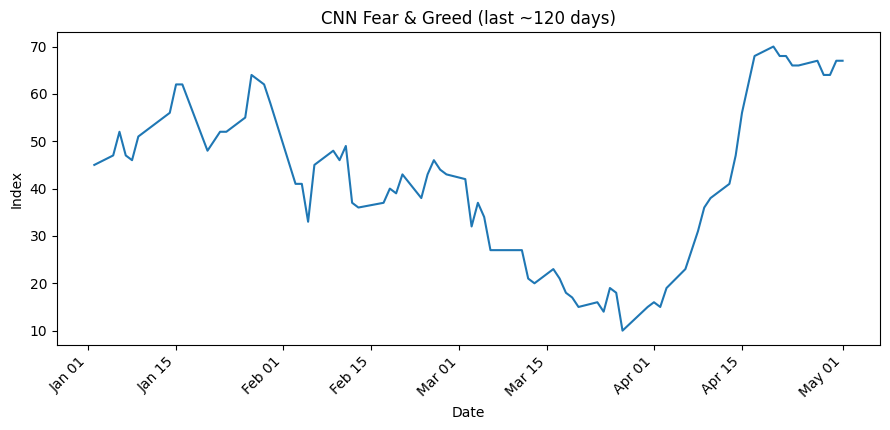
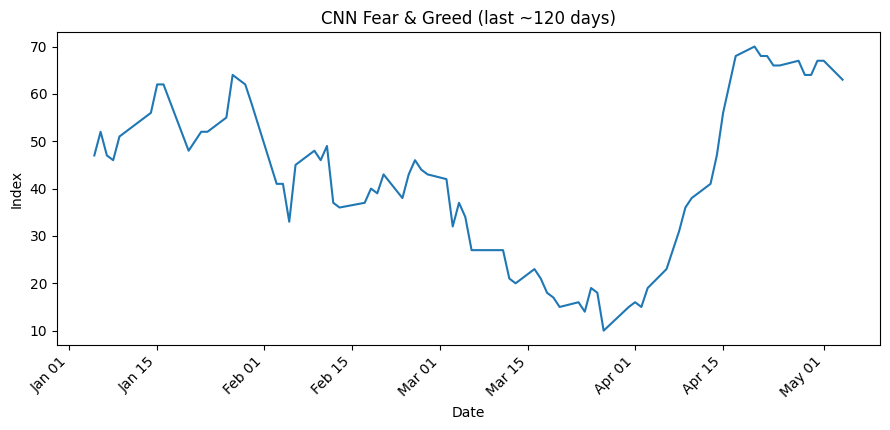
🔄 Update report [auto]

diff --git a/docs/index.html b/docs/index.html
@@ -141,9 +141,9 @@
     <body>
         <div class="refresh-indicator" id="refreshTimer">Page loaded at <span id="loadTime"></span></div>
         <h1>📈 US DM Dashboard 📉 </h1>
-        <div class="date-subtitle">Signals triggered on Friday, May 01, 2026 (as of NY market close)</div>
+        <div class="date-subtitle">Signals triggered on Monday, May 04, 2026 (as of NY market close)</div>
         <div class="fg-box">
-            <strong>CNN Fear & Greed Index:</strong> 67 (Prev: 67) on 2026-05-01
+            <strong>CNN Fear & Greed Index:</strong> 63 (Prev: 67) on 2026-05-04
         </div>
         <img src="fg_trend.png" alt="Fear & Greed Trend" style="max-width: 480px; display:block; margin:6px 0 16px 0;">
 
@@ -156,41 +156,41 @@
             </tr>
             <tr>
                 <td><strong>Bottoms</strong></td>
-                <td>55</td>
-                <td>22</td>
+                <td>45</td>
+                <td>7</td>
             </tr>
             <tr>
                 <td><strong>Tops</strong></td>
-                <td>29</td>
-                <td>12</td>
+                <td>17</td>
+                <td>14</td>
             </tr>
         </table>
     <h2>Sector Signal Grid</h2><div class="sector-grid"><div class="sector-cell" style="background-color: #f0f0f0;">Technology</div><div class="sector-cell" style="background-color: #f0f0f0;">Financials</div><div class="sector-cell" style="background-color: #f0f0f0;">Communications</div><div class="sector-cell" style="background-color: #f0f0f0;">Discretionary</div><div class="sector-cell" style="background-color: #f0f0f0;">Real Estate</div><div class="sector-cell" style="background-color: #f0f0f0;">Home Builders</div><div class="sector-cell" style="background-color: #f0f0f0;">Biotechnology</div><div class="sector-cell" style="background-color: #f0f0f0;">Regional Banks</div><div class="sector-cell" style="background-color: #f0f0f0;">Healthcare</div><div class="sector-cell" style="background-color: #f0f0f0;">Staples</div><div class="sector-cell" style="background-color: #f0f0f0;">Energy</div><div class="sector-cell" style="background-color: #f0f0f0;">Utilities</div><div class="sector-cell" style="background-color: #f0f0f0;">Materials</div><div class="sector-cell" style="background-color: #f0f0f0;">Industrials</div><div class="sector-cell" style="background-color: #f0f0f0;">Gold</div><div class="sector-cell" style="background-color: #f0f0f0;">Silver</div><div class="sector-cell" style="background-color: #f0f0f0;">Bitcoin</div><div class="sector-cell" style="background-color: #f0f0f0;">Ethereum</div></div>
     <div class="row">
         <div class="column">
             <h2>Daily Bottoms</h2>
-            <table class='sortable'><tr><th>Ticker</th><th>Close Price</th><th>Signal</th><th>Industry</th></tr><tr><td>AEO</td><td>16.94</td><td style='background-color: #d4edda;'>DM9 Bot</td><td>Apparel Retail</td></tr><tr><td>AGI</td><td>39.42</td><td style='background-color: #d4edda;'>DM9 Bot</td><td>Gold</td></tr><tr><td>ALC</td><td>74.09</td><td style='background-color: #d4edda;'>DM9 Bot</td><td>Medical Instruments & Supplies</td></tr><tr><td>ALK</td><td>38.55</td><td style='background-color: #d4edda;'>DM9 Bot</td><td>Airlines</td></tr><tr><td>ANNX</td><td>5.75</td><td style='background-color: #d4edda;'>DM9 Bot</td><td>Biotechnology</td></tr><tr><td>BBD</td><td>3.84</td><td style='background-color: #d4edda;'>DM9 Bot</td><td>Banks - Regional</td></tr><tr><td>BF-B</td><td>25.55</td><td style='background-color: #d4edda;'>DM9 Bot</td><td>Beverages - Wineries & Distilleries</td></tr><tr><td>BRCB</td><td>12.08</td><td style='background-color: #d4edda;'>DM9 Bot</td><td>Beverages - Non-Alcoholic</td></tr><tr><td>CCL</td><td>26.66</td><td style='background-color: #d4edda;'>DM9 Bot</td><td>Travel Services</td></tr><tr><td>COF</td><td>191.91</td><td style='background-color: #d4edda;'>DM9 Bot</td><td>Credit Services</td></tr><tr><td>CSGP</td><td>34.72</td><td style='background-color: #d4edda;'>DM9 Bot</td><td>Real Estate Services</td></tr><tr><td>CTAS</td><td>169.61</td><td style='background-color: #d4edda;'>DM9 Bot</td><td>Specialty Business Services</td></tr><tr><td>CUK</td><td>26.61</td><td style='background-color: #d4edda;'>DM9 Bot</td><td>Travel Services</td></tr><tr><td>DBD</td><td>77.86</td><td style='background-color: #d4edda;'>DM9 Bot</td><td>Software - Application</td></tr><tr><td>DGNX</td><td>1.96</td><td style='background-color: #d4edda;'>DM9 Bot</td><td>Consulting Services</td></tr><tr><td>DNLI</td><td>18.30</td><td style='background-color: #d4edda;'>DM9 Bot</td><td>Biotechnology</td></tr><tr><td>DYN</td><td>17.39</td><td style='background-color: #d4edda;'>DM9 Bot</td><td>Biotechnology</td></tr><tr><td>FDMT</td><td>9.09</td><td style='background-color: #d4edda;'>DM9 Bot</td><td>Biotechnology</td></tr><tr><td>FUTU</td><td>154.85</td><td style='background-color: #d4edda;'>DM9 Bot</td><td>Capital Markets</td></tr><tr><td>GENI</td><td>4.35</td><td style='background-color: #d4edda;'>DM9 Bot</td><td>Internet Content & Information</td></tr><tr><td>GSK</td><td>51.61</td><td style='background-color: #c3e6cb; font-weight: bold;'>DM13 Bot</td><td>Drug Manufacturers - General</td></tr><tr><td>IAUX</td><td>1.52</td><td style='background-color: #d4edda;'>DM9 Bot</td><td>Gold</td></tr><tr><td>IDYA</td><td>28.19</td><td style='background-color: #d4edda;'>DM9 Bot</td><td>Biotechnology</td></tr><tr><td>IOVA</td><td>3.40</td><td style='background-color: #d4edda;'>DM9 Bot</td><td>Biotechnology</td></tr><tr><td>ITRG</td><td>2.69</td><td style='background-color: #d4edda;'>DM9 Bot</td><td>Other Precious Metals & Mining</td></tr><tr><td>ITRI</td><td>85.40</td><td style='background-color: #d4edda;'>DM9 Bot</td><td>Scientific & Technical Instruments</td></tr><tr><td>JBLU</td><td>4.86</td><td style='background-color: #d4edda;'>DM9 Bot</td><td>Airlines</td></tr><tr><td>LTM</td><td>47.26</td><td style='background-color: #d4edda;'>DM9 Bot</td><td>Airlines</td></tr><tr><td>LXRX</td><td>1.63</td><td style='background-color: #d4edda;'>DM9 Bot</td><td>Biotechnology</td></tr><tr><td>MCD</td><td>286.64</td><td style='background-color: #d4edda;'>DM9 Bot</td><td>Restaurants</td></tr><tr><td>NG</td><td>8.05</td><td style='background-color: #d4edda;'>DM9 Bot</td><td>Gold</td></tr><tr><td>NGD</td><td>9.08</td><td style='background-color: #c3e6cb; font-weight: bold;'>DM13 Bot</td><td>Gold</td></tr><tr><td>NVAX</td><td>8.04</td><td style='background-color: #d4edda;'>DM9 Bot</td><td>Biotechnology</td></tr><tr><td>ORLA</td><td>13.30</td><td style='background-color: #c3e6cb; font-weight: bold;'>DM13 Bot</td><td>Gold</td></tr><tr><td>OSIS</td><td>282.50</td><td style='background-color: #d4edda;'>DM9 Bot</td><td>Electronic Components</td></tr><tr><td>PAAS</td><td>51.81</td><td style='background-color: #d4edda;'>DM9 Bot</td><td>Gold</td></tr><tr><td>PAGS</td><td>9.87</td><td style='background-color: #d4edda;'>DM9 Bot</td><td>Software - Infrastructure</td></tr><tr><td>PLAY</td><td>11.63</td><td style='background-color: #d4edda;'>DM9 Bot</td><td>Entertainment</td></tr><tr><td>PLNT</td><td>65.38</td><td style='background-color: #d4edda;'>DM9 Bot</td><td>Leisure</td></tr><tr><td>PONY</td><td>9.89</td><td style='background-color: #d4edda;'>DM9 Bot</td><td>Information Technology Services</td></tr><tr><td>PPTA</td><td>27.47</td><td style='background-color: #d4edda;'>DM9 Bot</td><td>Other Precious Metals & Mining</td></tr><tr><td>QXO</td><td>19.82</td><td style='background-color: #d4edda;'>DM9 Bot</td><td>Industrial Distribution</td></tr><tr><td>RERE</td><td>4.43</td><td style='background-color: #d4edda;'>DM9 Bot</td><td>Internet Retail</td></tr><tr><td>SBSW</td><td>12.07</td><td style='background-color: #d4edda;'>DM9 Bot</td><td>Other Precious Metals & Mining</td></tr><tr><td>SONY</td><td>19.78</td><td style='background-color: #d4edda;'>DM9 Bot</td><td>Consumer Electronics</td></tr><tr><td>SPOT</td><td>441.51</td><td style='background-color: #d4edda;'>DM9 Bot</td><td>Internet Content & Information</td></tr><tr><td>SRAD</td><td>13.26</td><td style='background-color: #d4edda;'>DM9 Bot</td><td>Software - Application</td></tr><tr><td>TME</td><td>9.10</td><td style='background-color: #d4edda;'>DM9 Bot</td><td>Internet Content & Information</td></tr><tr><td>TPR</td><td>142.74</td><td style='background-color: #d4edda;'>DM9 Bot</td><td>Luxury Goods</td></tr><tr><td>UBER</td><td>75.12</td><td style='background-color: #d4edda;'>DM9 Bot</td><td>Software - Application</td></tr><tr><td>USAS</td><td>5.87</td><td style='background-color: #d4edda;'>DM9 Bot</td><td>Other Industrial Metals & Mining</td></tr><tr><td>USLM</td><td>110.00</td><td style='background-color: #d4edda;'>DM9 Bot</td><td>Building Materials</td></tr><tr><td>VKTX</td><td>30.00</td><td style='background-color: #d4edda;'>DM9 Bot</td><td>Biotechnology</td></tr><tr><td>VSEC</td><td>170.91</td><td style='background-color: #d4edda;'>DM9 Bot</td><td>Aerospace & Defense</td></tr><tr><td>ZTS</td><td>114.16</td><td style='background-color: #d4edda;'>DM9 Bot</td><td>Drug Manufacturers - Specialty & Generic</td></tr></table>
-            <h3>Daily Bottoms by Sector</h3><table><tr><th>Sector</th><th>Count</th></tr><tr><td>Healthcare</td><td>12</td></tr><tr><td>Basic Materials</td><td>11</td></tr><tr><td>Technology</td><td>8</td></tr><tr><td>Consumer Cyclical</td><td>7</td></tr><tr><td>Industrials</td><td>7</td></tr><tr><td>Communication Services</td><td>4</td></tr><tr><td>Financial</td><td>3</td></tr><tr><td>Consumer Defensive</td><td>2</td></tr><tr><td>Real Estate</td><td>1</td></tr></table>
+            <table class='sortable'><tr><th>Ticker</th><th>Close Price</th><th>Signal</th><th>Industry</th></tr><tr><td>AJG</td><td>207.03</td><td style='background-color: #d4edda;'>DM9 Bot</td><td>Insurance Brokers</td></tr><tr><td>ANF</td><td>78.97</td><td style='background-color: #d4edda;'>DM9 Bot</td><td>Apparel Retail</td></tr><tr><td>AON</td><td>314.92</td><td style='background-color: #d4edda;'>DM9 Bot</td><td>Insurance Brokers</td></tr><tr><td>APH</td><td>141.03</td><td style='background-color: #d4edda;'>DM9 Bot</td><td>Electronic Components</td></tr><tr><td>AVNT</td><td>35.61</td><td style='background-color: #d4edda;'>DM9 Bot</td><td>Specialty Chemicals</td></tr><tr><td>BIPC</td><td>37.09</td><td style='background-color: #c3e6cb; font-weight: bold;'>DM13 Bot</td><td>Utilities - Regulated Gas</td></tr><tr><td>BKNG</td><td>165.58</td><td style='background-color: #d4edda;'>DM9 Bot</td><td>Travel Services</td></tr><tr><td>BRO</td><td>57.64</td><td style='background-color: #d4edda;'>DM9 Bot</td><td>Insurance Brokers</td></tr><tr><td>CAR</td><td>168.29</td><td style='background-color: #d4edda;'>DM9 Bot</td><td>Rental & Leasing Services</td></tr><tr><td>CIG</td><td>2.46</td><td style='background-color: #d4edda;'>DM9 Bot</td><td>Utilities - Diversified</td></tr><tr><td>CPAY</td><td>310.83</td><td style='background-color: #d4edda;'>DM9 Bot</td><td>Software - Infrastructure</td></tr><tr><td>CTSH</td><td>51.86</td><td style='background-color: #d4edda;'>DM9 Bot</td><td>Information Technology Services</td></tr><tr><td>DAVA</td><td>4.17</td><td style='background-color: #d4edda;'>DM9 Bot</td><td>Software - Infrastructure</td></tr><tr><td>DECK</td><td>97.65</td><td style='background-color: #d4edda;'>DM9 Bot</td><td>Footwear & Accessories</td></tr><tr><td>DG</td><td>114.48</td><td style='background-color: #d4edda;'>DM9 Bot</td><td>Discount Stores</td></tr><tr><td>ECL</td><td>255.59</td><td style='background-color: #d4edda;'>DM9 Bot</td><td>Specialty Chemicals</td></tr><tr><td>FLG</td><td>13.86</td><td style='background-color: #d4edda;'>DM9 Bot</td><td>Banks - Regional</td></tr><tr><td>FLY</td><td>33.37</td><td style='background-color: #d4edda;'>DM9 Bot</td><td>Aerospace & Defense</td></tr><tr><td>GAP</td><td>23.67</td><td style='background-color: #d4edda;'>DM9 Bot</td><td>Apparel Retail</td></tr><tr><td>GLOB</td><td>40.18</td><td style='background-color: #d4edda;'>DM9 Bot</td><td>Information Technology Services</td></tr><tr><td>HMY</td><td>15.49</td><td style='background-color: #d4edda;'>DM9 Bot</td><td>Gold</td></tr><tr><td>IFF</td><td>70.09</td><td style='background-color: #d4edda;'>DM9 Bot</td><td>Specialty Chemicals</td></tr><tr><td>KC</td><td>15.21</td><td style='background-color: #d4edda;'>DM9 Bot</td><td>Software - Application</td></tr><tr><td>LCTX</td><td>1.42</td><td style='background-color: #d4edda;'>DM9 Bot</td><td>Biotechnology</td></tr><tr><td>LMND</td><td>55.05</td><td style='background-color: #d4edda;'>DM9 Bot</td><td>Insurance - Property & Casualty</td></tr><tr><td>MOS</td><td>22.97</td><td style='background-color: #d4edda;'>DM9 Bot</td><td>Agricultural Inputs</td></tr><tr><td>NGD</td><td>9.08</td><td style='background-color: #c3e6cb; font-weight: bold;'>DM13 Bot</td><td>Gold</td></tr><tr><td>NKE</td><td>43.09</td><td style='background-color: #d4edda;'>DM9 Bot</td><td>Footwear & Accessories</td></tr><tr><td>NVR</td><td>5932.12</td><td style='background-color: #d4edda;'>DM9 Bot</td><td>Residential Construction</td></tr><tr><td>PATK</td><td>85.13</td><td style='background-color: #d4edda;'>DM9 Bot</td><td>Furnishings, Fixtures & Appliances</td></tr><tr><td>PCVX</td><td>58.49</td><td style='background-color: #d4edda;'>DM9 Bot</td><td>Biotechnology</td></tr><tr><td>PFE</td><td>26.30</td><td style='background-color: #d4edda;'>DM9 Bot</td><td>Drug Manufacturers - General</td></tr><tr><td>PLMR</td><td>115.55</td><td style='background-color: #d4edda;'>DM9 Bot</td><td>Insurance - Property & Casualty</td></tr><tr><td>PPG</td><td>104.08</td><td style='background-color: #d4edda;'>DM9 Bot</td><td>Specialty Chemicals</td></tr><tr><td>SCCO</td><td>166.30</td><td style='background-color: #c3e6cb; font-weight: bold;'>DM13 Bot</td><td>Copper</td></tr><tr><td>STNE</td><td>10.84</td><td style='background-color: #d4edda;'>DM9 Bot</td><td>Software - Infrastructure</td></tr><tr><td>SUPV</td><td>7.95</td><td style='background-color: #d4edda;'>DM9 Bot</td><td>Banks - Regional</td></tr><tr><td>TRU</td><td>69.05</td><td style='background-color: #d4edda;'>DM9 Bot</td><td>Financial Data & Stock Exchanges</td></tr><tr><td>TV</td><td>2.79</td><td style='background-color: #d4edda;'>DM9 Bot</td><td>Telecom Services</td></tr><tr><td>UNF</td><td>249.74</td><td style='background-color: #d4edda;'>DM9 Bot</td><td>Specialty Business Services</td></tr><tr><td>VERA</td><td>35.51</td><td style='background-color: #c3e6cb; font-weight: bold;'>DM13 Bot</td><td>Biotechnology</td></tr><tr><td>VOYG</td><td>25.57</td><td style='background-color: #d4edda;'>DM9 Bot</td><td>Aerospace & Defense</td></tr><tr><td>WMG</td><td>28.11</td><td style='background-color: #d4edda;'>DM9 Bot</td><td>Entertainment</td></tr><tr><td>WOOF</td><td>2.78</td><td style='background-color: #d4edda;'>DM9 Bot</td><td>Specialty Retail</td></tr><tr><td>WTW</td><td>260.02</td><td style='background-color: #d4edda;'>DM9 Bot</td><td>Insurance Brokers</td></tr></table>
+            <h3>Daily Bottoms by Sector</h3><table><tr><th>Sector</th><th>Count</th></tr><tr><td>Financial</td><td>9</td></tr><tr><td>Basic Materials</td><td>8</td></tr><tr><td>Consumer Cyclical</td><td>8</td></tr><tr><td>Technology</td><td>7</td></tr><tr><td>Healthcare</td><td>4</td></tr><tr><td>Industrials</td><td>4</td></tr><tr><td>Utilities</td><td>2</td></tr><tr><td>Communication Services</td><td>2</td></tr><tr><td>Consumer Defensive</td><td>1</td></tr></table>
         </div>
         <div class="column">
             <h2>Weekly Bottoms</h2>
-            <table class='sortable'><tr><th>Ticker</th><th>Close Price</th><th>Signal</th><th>Industry</th></tr><tr><td>ABT</td><td>89.46</td><td style='background-color: #d4edda;'>DM9 Bot</td><td>Medical Devices</td></tr><tr><td>ACN</td><td>179.83</td><td style='background-color: #c3e6cb; font-weight: bold;'>DM13 Bot</td><td>Information Technology Services</td></tr><tr><td>CAG</td><td>14.06</td><td style='background-color: #d4edda;'>DM9 Bot</td><td>Packaged Foods</td></tr><tr><td>CALX</td><td>43.53</td><td style='background-color: #d4edda;'>DM9 Bot</td><td>Software - Infrastructure</td></tr><tr><td>CLX</td><td>87.11</td><td style='background-color: #d4edda;'>DM9 Bot</td><td>Household & Personal Products</td></tr><tr><td>CTSH</td><td>52.43</td><td style='background-color: #c3e6cb; font-weight: bold;'>DM13 Bot</td><td>Information Technology Services</td></tr><tr><td>DXCM</td><td>61.35</td><td style='background-color: #d4edda;'>DM9 Bot</td><td>Medical Devices</td></tr><tr><td>EPAM</td><td>112.33</td><td style='background-color: #c3e6cb; font-weight: bold;'>DM13 Bot</td><td>Information Technology Services</td></tr><tr><td>EYE</td><td>23.54</td><td style='background-color: #d4edda;'>DM9 Bot</td><td>Specialty Retail</td></tr><tr><td>FLNC</td><td>12.19</td><td style='background-color: #c3e6cb; font-weight: bold;'>DM13 Bot</td><td>Utilities - Renewable</td></tr><tr><td>HLN</td><td>9.38</td><td style='background-color: #d4edda;'>DM9 Bot</td><td>Drug Manufacturers - Specialty & Generic</td></tr><tr><td>HRL</td><td>21.33</td><td style='background-color: #d4edda;'>DM9 Bot</td><td>Packaged Foods</td></tr><tr><td>HSY</td><td>182.34</td><td style='background-color: #d4edda;'>DM9 Bot</td><td>Confectioners</td></tr><tr><td>KTOS</td><td>62.05</td><td style='background-color: #c3e6cb; font-weight: bold;'>DM13 Bot</td><td>Aerospace & Defense</td></tr><tr><td>LDOS</td><td>149.23</td><td style='background-color: #c3e6cb; font-weight: bold;'>DM13 Bot</td><td>Information Technology Services</td></tr><tr><td>PSNL</td><td>5.78</td><td style='background-color: #c3e6cb; font-weight: bold;'>DM13 Bot</td><td>Diagnostics & Research</td></tr><tr><td>TSCO</td><td>33.83</td><td style='background-color: #d4edda;'>DM9 Bot</td><td>Specialty Retail</td></tr><tr><td>TXRH</td><td>158.29</td><td style='background-color: #d4edda;'>DM9 Bot</td><td>Restaurants</td></tr><tr><td>UHS</td><td>167.00</td><td style='background-color: #d4edda;'>DM9 Bot</td><td>Medical Care Facilities</td></tr><tr><td>UPWK</td><td>10.49</td><td style='background-color: #c3e6cb; font-weight: bold;'>DM13 Bot</td><td>Internet Content & Information</td></tr><tr><td>VRTX</td><td>423.92</td><td style='background-color: #d4edda;'>DM9 Bot</td><td>Biotechnology</td></tr><tr><td>YUMC</td><td>48.80</td><td style='background-color: #d4edda;'>DM9 Bot</td><td>Restaurants</td></tr></table>
-            <p><em>Weekly signals last updated on 2026-04-27</em></p>
-            <h3>Weekly Bottoms by Sector</h3><table><tr><th>Sector</th><th>Count</th></tr><tr><td>Healthcare</td><td>6</td></tr><tr><td>Technology</td><td>5</td></tr><tr><td>Consumer Defensive</td><td>4</td></tr><tr><td>Consumer Cyclical</td><td>4</td></tr><tr><td>Industrials</td><td>1</td></tr><tr><td>Utilities</td><td>1</td></tr><tr><td>Communication Services</td><td>1</td></tr></table>
+            <table class='sortable'><tr><th>Ticker</th><th>Close Price</th><th>Signal</th><th>Industry</th></tr><tr><td>HCA</td><td>427.18</td><td style='background-color: #d4edda;'>DM9 Bot</td><td>Medical Care Facilities</td></tr><tr><td>HII</td><td>363.37</td><td style='background-color: #d4edda;'>DM9 Bot</td><td>Aerospace & Defense</td></tr><tr><td>LMT</td><td>518.15</td><td style='background-color: #d4edda;'>DM9 Bot</td><td>Aerospace & Defense</td></tr><tr><td>MZTI</td><td>116.22</td><td style='background-color: #d4edda;'>DM9 Bot</td><td>Packaged Foods</td></tr><tr><td>PMI</td><td>0.35</td><td style='background-color: #c3e6cb; font-weight: bold;'>DM13 Bot</td><td>Medical Devices</td></tr><tr><td>THC</td><td>185.35</td><td style='background-color: #d4edda;'>DM9 Bot</td><td>Medical Care Facilities</td></tr><tr><td>TMUS</td><td>194.42</td><td style='background-color: #d4edda;'>DM9 Bot</td><td>Telecom Services</td></tr></table>
+            <p><em>Weekly signals last updated on 2026-05-04</em></p>
+            <h3>Weekly Bottoms by Sector</h3><table><tr><th>Sector</th><th>Count</th></tr><tr><td>Healthcare</td><td>3</td></tr><tr><td>Industrials</td><td>2</td></tr><tr><td>Communication Services</td><td>1</td></tr><tr><td>Consumer Defensive</td><td>1</td></tr></table>
         </div>
     </div>
     
     <div class="row">
         <div class="column">
             <h2>Daily Tops</h2>
-            <table class='sortable'><tr><th>Ticker</th><th>Close Price</th><th>Signal</th><th>Industry</th></tr><tr><td>ADM</td><td>74.94</td><td style='background-color: #ffb3b3;'>DM9 Top</td><td>Farm Products</td></tr><tr><td>AMZN</td><td>268.26</td><td style='background-color: #ffb3b3;'>DM9 Top</td><td>Internet Retail</td></tr><tr><td>APA</td><td>40.13</td><td style='background-color: #ffb3b3;'>DM9 Top</td><td>Oil & Gas E&P</td></tr><tr><td>BKR</td><td>69.12</td><td style='background-color: #ffb3b3;'>DM9 Top</td><td>Oil & Gas Equipment & Services</td></tr><tr><td>COP</td><td>123.19</td><td style='background-color: #ffb3b3;'>DM9 Top</td><td>Oil & Gas E&P</td></tr><tr><td>CTRA</td><td>35.38</td><td style='background-color: #ffb3b3;'>DM9 Top</td><td>Oil & Gas E&P</td></tr><tr><td>DVN</td><td>50.56</td><td style='background-color: #ffb3b3;'>DM9 Top</td><td>Oil & Gas E&P</td></tr><tr><td>EVH</td><td>3.75</td><td style='background-color: #ff8080; font-weight: bold;'>DM13 Top</td><td>Health Information Services</td></tr><tr><td>FANG</td><td>207.65</td><td style='background-color: #ffb3b3;'>DM9 Top</td><td>Oil & Gas E&P</td></tr><tr><td>HAL</td><td>41.66</td><td style='background-color: #ffb3b3;'>DM9 Top</td><td>Oil & Gas Equipment & Services</td></tr><tr><td>HP</td><td>40.43</td><td style='background-color: #ffb3b3;'>DM9 Top</td><td>Oil & Gas Drilling</td></tr><tr><td>HUM</td><td>233.63</td><td style='background-color: #ff8080; font-weight: bold;'>DM13 Top</td><td>Healthcare Plans</td></tr><tr><td>JJSF</td><td>87.03</td><td style='background-color: #ffb3b3;'>DM9 Top</td><td>Packaged Foods</td></tr><tr><td>KNTK</td><td>49.39</td><td style='background-color: #ffb3b3;'>DM9 Top</td><td>Oil & Gas Midstream</td></tr><tr><td>LFST</td><td>7.53</td><td style='background-color: #ff8080; font-weight: bold;'>DM13 Top</td><td>Medical Care Facilities</td></tr><tr><td>MGY</td><td>30.09</td><td style='background-color: #ffb3b3;'>DM9 Top</td><td>Oil & Gas E&P</td></tr><tr><td>MO</td><td>74.55</td><td style='background-color: #ffb3b3;'>DM9 Top</td><td>Tobacco</td></tr><tr><td>MTDR</td><td>62.36</td><td style='background-color: #ffb3b3;'>DM9 Top</td><td>Oil & Gas E&P</td></tr><tr><td>OKE</td><td>90.36</td><td style='background-color: #ffb3b3;'>DM9 Top</td><td>Oil & Gas Midstream</td></tr><tr><td>OXY</td><td>58.71</td><td style='background-color: #ffb3b3;'>DM9 Top</td><td>Oil & Gas E&P</td></tr><tr><td>PFG</td><td>101.09</td><td style='background-color: #ff8080; font-weight: bold;'>DM13 Top</td><td>Asset Management</td></tr><tr><td>PSTG</td><td>70.31</td><td style='background-color: #ff8080; font-weight: bold;'>DM13 Top</td><td>Computer Hardware</td></tr><tr><td>PTEN</td><td>11.99</td><td style='background-color: #ffb3b3;'>DM9 Top</td><td>Oil & Gas Drilling</td></tr><tr><td>SM</td><td>30.47</td><td style='background-color: #ffb3b3;'>DM9 Top</td><td>Oil & Gas E&P</td></tr><tr><td>SNDK</td><td>1187.00</td><td style='background-color: #ffb3b3;'>DM9 Top</td><td>Computer Hardware</td></tr><tr><td>STUB</td><td>7.63</td><td style='background-color: #ffb3b3;'>DM9 Top</td><td>Internet Retail</td></tr><tr><td>SWBI</td><td>15.57</td><td style='background-color: #ffb3b3;'>DM9 Top</td><td>Aerospace & Defense</td></tr><tr><td>TALO</td><td>15.56</td><td style='background-color: #ffb3b3;'>DM9 Top</td><td>Oil & Gas E&P</td></tr><tr><td>XPRO</td><td>18.04</td><td style='background-color: #ffb3b3;'>DM9 Top</td><td>Oil & Gas Equipment & Services</td></tr></table>
-            <h3>Daily Tops by Sector</h3><table><tr><th>Sector</th><th>Count</th></tr><tr><td>Energy</td><td>17</td></tr><tr><td>Consumer Defensive</td><td>3</td></tr><tr><td>Healthcare</td><td>3</td></tr><tr><td>Consumer Cyclical</td><td>2</td></tr><tr><td>Technology</td><td>2</td></tr><tr><td>Financial</td><td>1</td></tr><tr><td>Industrials</td><td>1</td></tr></table>
+            <table class='sortable'><tr><th>Ticker</th><th>Close Price</th><th>Signal</th><th>Industry</th></tr><tr><td>ACVA</td><td>5.30</td><td style='background-color: #ffb3b3;'>DM9 Top</td><td>Auto & Truck Dealerships</td></tr><tr><td>ADUS</td><td>100.12</td><td style='background-color: #ffb3b3;'>DM9 Top</td><td>Medical Care Facilities</td></tr><tr><td>ALIT</td><td>0.81</td><td style='background-color: #ffb3b3;'>DM9 Top</td><td>Software - Application</td></tr><tr><td>CSIQ</td><td>15.87</td><td style='background-color: #ffb3b3;'>DM9 Top</td><td>Solar</td></tr><tr><td>CTRI</td><td>39.29</td><td style='background-color: #ffb3b3;'>DM9 Top</td><td>Utilities - Regulated Gas</td></tr><tr><td>DNOW</td><td>13.42</td><td style='background-color: #ffb3b3;'>DM9 Top</td><td>Industrial Distribution</td></tr><tr><td>ELV</td><td>371.90</td><td style='background-color: #ff8080; font-weight: bold;'>DM13 Top</td><td>Healthcare Plans</td></tr><tr><td>GNRC</td><td>257.07</td><td style='background-color: #ff8080; font-weight: bold;'>DM13 Top</td><td>Specialty Industrial Machinery</td></tr><tr><td>HLX</td><td>10.25</td><td style='background-color: #ffb3b3;'>DM9 Top</td><td>Oil & Gas Equipment & Services</td></tr><tr><td>INDV</td><td>38.98</td><td style='background-color: #ffb3b3;'>DM9 Top</td><td>Drug Manufacturers - Specialty & Generic</td></tr><tr><td>KOPN</td><td>4.47</td><td style='background-color: #ffb3b3;'>DM9 Top</td><td>Electronic Components</td></tr><tr><td>MIAX</td><td>47.31</td><td style='background-color: #ffb3b3;'>DM9 Top</td><td>Capital Markets</td></tr><tr><td>MU</td><td>576.45</td><td style='background-color: #ffb3b3;'>DM9 Top</td><td>Semiconductors</td></tr><tr><td>NPWR</td><td>1.98</td><td style='background-color: #ffb3b3;'>DM9 Top</td><td>Specialty Industrial Machinery</td></tr><tr><td>OVV</td><td>62.93</td><td style='background-color: #ffb3b3;'>DM9 Top</td><td>Oil & Gas E&P</td></tr><tr><td>POWL</td><td>269.95</td><td style='background-color: #ff8080; font-weight: bold;'>DM13 Top</td><td>Electrical Equipment & Parts</td></tr><tr><td>WMB</td><td>75.41</td><td style='background-color: #ffb3b3;'>DM9 Top</td><td>Oil & Gas Midstream</td></tr></table>
+            <h3>Daily Tops by Sector</h3><table><tr><th>Sector</th><th>Count</th></tr><tr><td>Technology</td><td>4</td></tr><tr><td>Industrials</td><td>4</td></tr><tr><td>Energy</td><td>3</td></tr><tr><td>Healthcare</td><td>3</td></tr><tr><td>Consumer Cyclical</td><td>1</td></tr><tr><td>Financial</td><td>1</td></tr><tr><td>Utilities</td><td>1</td></tr></table>
         </div>
         <div class="column">
             <h2>Weekly Tops</h2>
-            <table class='sortable'><tr><th>Ticker</th><th>Close Price</th><th>Signal</th><th>Industry</th></tr><tr><td>BFLY</td><td>5.40</td><td style='background-color: #ffb3b3;'>DM9 Top</td><td>Medical Devices</td></tr><tr><td>BKSY</td><td>35.55</td><td style='background-color: #ffb3b3;'>DM9 Top</td><td>Specialty Business Services</td></tr><tr><td>FFIV</td><td>323.20</td><td style='background-color: #ffb3b3;'>DM9 Top</td><td>Software - Infrastructure</td></tr><tr><td>LUNR</td><td>25.62</td><td style='background-color: #ffb3b3;'>DM9 Top</td><td>Aerospace & Defense</td></tr><tr><td>NOK</td><td>13.30</td><td style='background-color: #ff8080; font-weight: bold;'>DM13 Top</td><td>Communication Equipment</td></tr><tr><td>NWS</td><td>30.41</td><td style='background-color: #ffb3b3;'>DM9 Top</td><td>Entertainment</td></tr><tr><td>PL</td><td>36.90</td><td style='background-color: #ffb3b3;'>DM9 Top</td><td>Aerospace & Defense</td></tr><tr><td>PLUG</td><td>3.11</td><td style='background-color: #ffb3b3;'>DM9 Top</td><td>Electrical Equipment & Parts</td></tr><tr><td>SEMR</td><td>12.00</td><td style='background-color: #ffb3b3;'>DM9 Top</td><td>Software - Application</td></tr><tr><td>VRSN</td><td>272.44</td><td style='background-color: #ffb3b3;'>DM9 Top</td><td>Software - Infrastructure</td></tr><tr><td>WLY</td><td>40.93</td><td style='background-color: #ffb3b3;'>DM9 Top</td><td>Publishing</td></tr><tr><td>YELP</td><td>28.90</td><td style='background-color: #ffb3b3;'>DM9 Top</td><td>Internet Content & Information</td></tr></table>
-            <p><em>Weekly signals last updated on 2026-04-27</em></p>
-            <h3>Weekly Tops by Sector</h3><table><tr><th>Sector</th><th>Count</th></tr><tr><td>Technology</td><td>4</td></tr><tr><td>Industrials</td><td>4</td></tr><tr><td>Communication Services</td><td>3</td></tr><tr><td>Healthcare</td><td>1</td></tr></table>
+            <table class='sortable'><tr><th>Ticker</th><th>Close Price</th><th>Signal</th><th>Industry</th></tr><tr><td>ASST</td><td>16.35</td><td style='background-color: #ffb3b3;'>DM9 Top</td><td>Internet Content & Information</td></tr><tr><td>BLDP</td><td>3.29</td><td style='background-color: #ffb3b3;'>DM9 Top</td><td>Specialty Industrial Machinery</td></tr><tr><td>CTLP</td><td>11.19</td><td style='background-color: #ffb3b3;'>DM9 Top</td><td>Software - Infrastructure</td></tr><tr><td>CWAN</td><td>24.17</td><td style='background-color: #ffb3b3;'>DM9 Top</td><td>Software - Application</td></tr><tr><td>DOCN</td><td>108.81</td><td style='background-color: #ffb3b3;'>DM9 Top</td><td>Software - Infrastructure</td></tr><tr><td>EXTR</td><td>22.84</td><td style='background-color: #ffb3b3;'>DM9 Top</td><td>Communication Equipment</td></tr><tr><td>GEO</td><td>18.58</td><td style='background-color: #ffb3b3;'>DM9 Top</td><td>Security & Protection Services</td></tr><tr><td>POWI</td><td>72.85</td><td style='background-color: #ffb3b3;'>DM9 Top</td><td>Semiconductors</td></tr><tr><td>ROST</td><td>226.02</td><td style='background-color: #ff8080; font-weight: bold;'>DM13 Top</td><td>Apparel Retail</td></tr><tr><td>SEMR</td><td>12.00</td><td style='background-color: #ffb3b3;'>DM9 Top</td><td>Software - Application</td></tr><tr><td>SIRI</td><td>26.77</td><td style='background-color: #ff8080; font-weight: bold;'>DM13 Top</td><td>Entertainment</td></tr><tr><td>TSSI</td><td>14.56</td><td style='background-color: #ffb3b3;'>DM9 Top</td><td>Information Technology Services</td></tr><tr><td>U</td><td>27.72</td><td style='background-color: #ffb3b3;'>DM9 Top</td><td>Software - Application</td></tr><tr><td>UNFI</td><td>50.30</td><td style='background-color: #ffb3b3;'>DM9 Top</td><td>Food Distribution</td></tr></table>
+            <p><em>Weekly signals last updated on 2026-05-04</em></p>
+            <h3>Weekly Tops by Sector</h3><table><tr><th>Sector</th><th>Count</th></tr><tr><td>Technology</td><td>8</td></tr><tr><td>Industrials</td><td>2</td></tr><tr><td>Communication Services</td><td>2</td></tr><tr><td>Consumer Cyclical</td><td>1</td></tr><tr><td>Consumer Defensive</td><td>1</td></tr></table>
         </div>
     </div>
     
